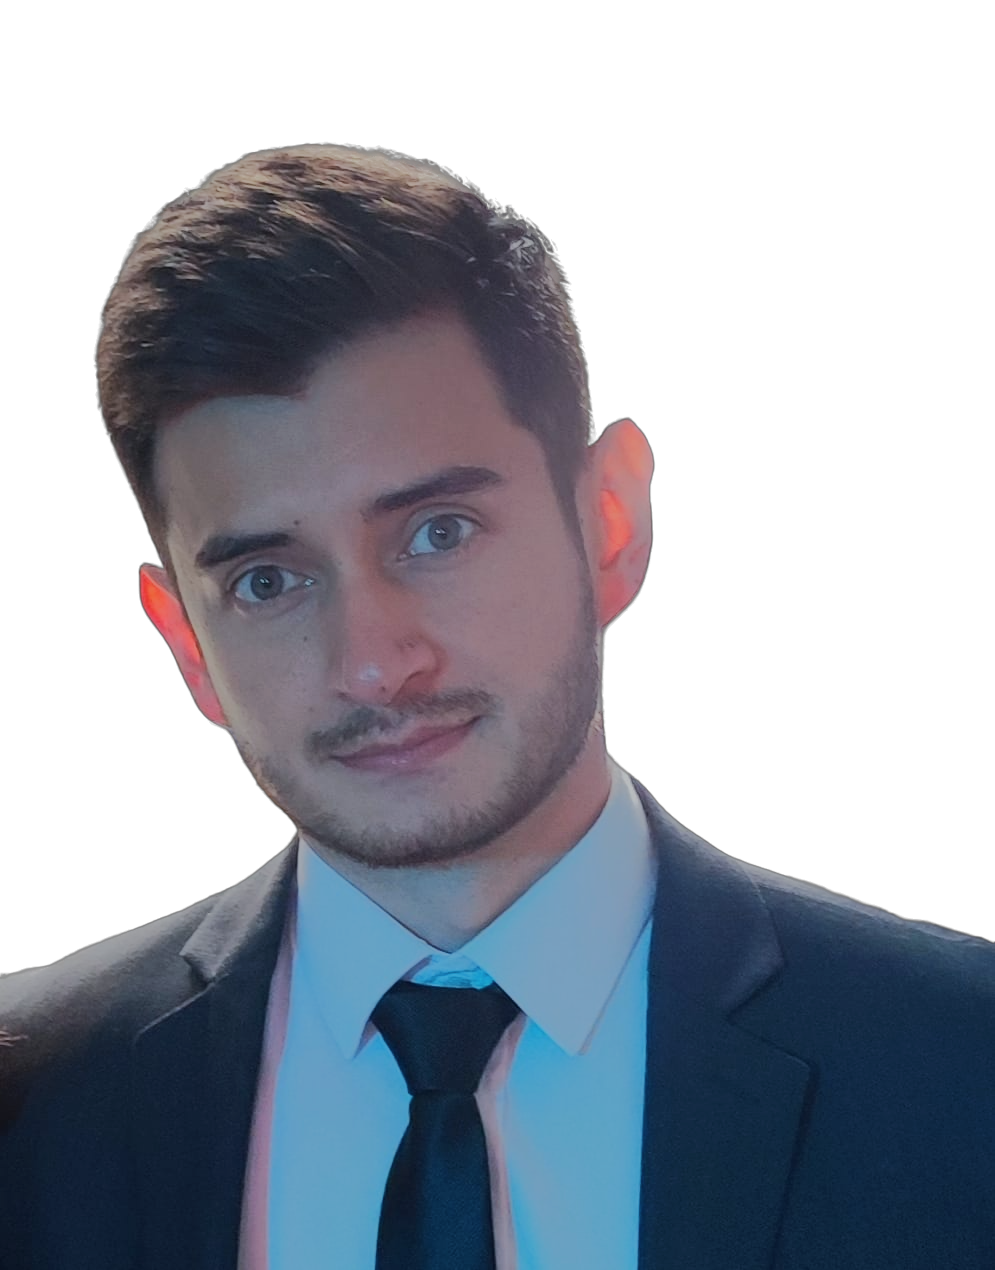
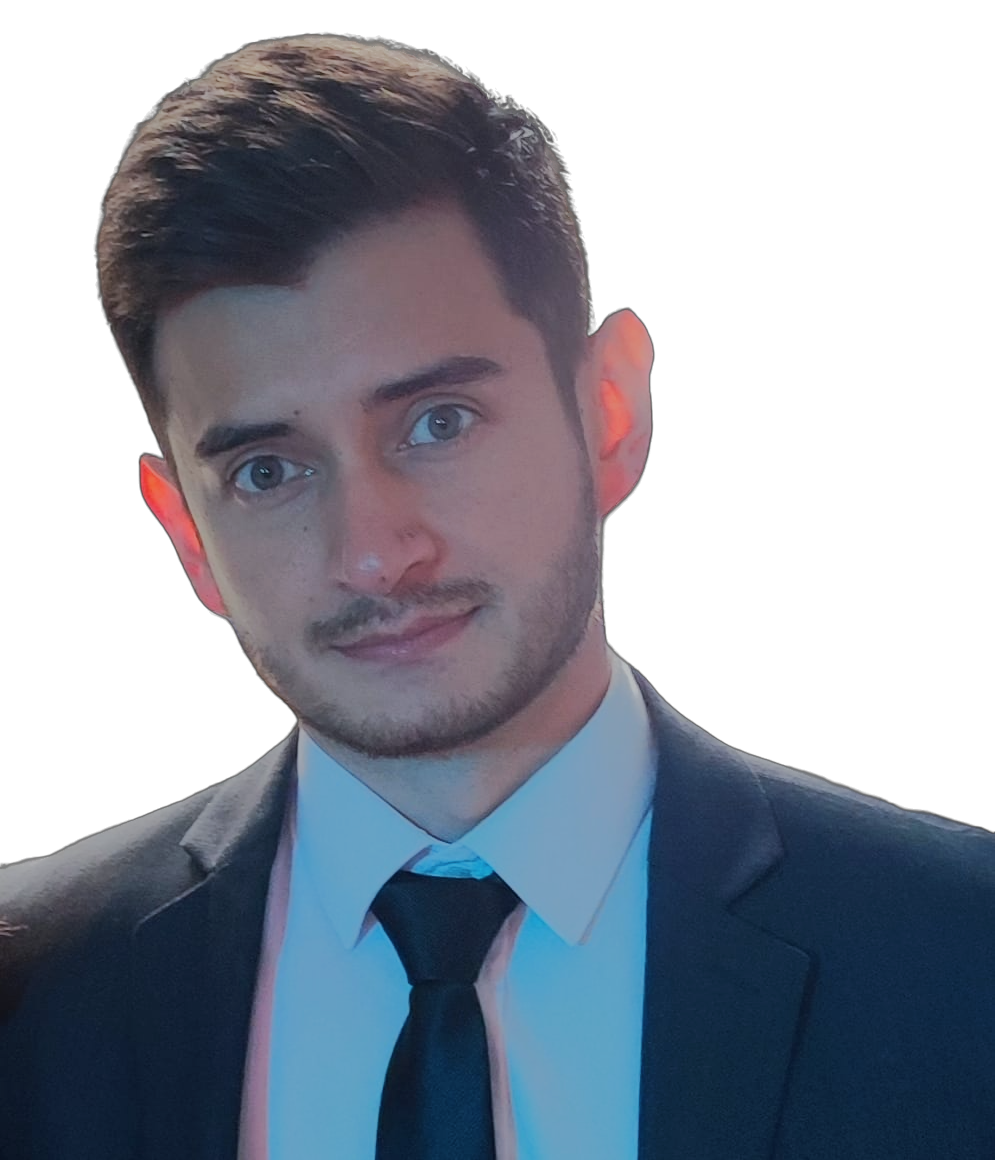
Se mejoro el resposive de toda la pagina

diff --git a/src/components/home/Home.module.css b/src/components/home/Home.module.css
@@ -1,31 +1,40 @@
-
+/* 
 .principalHome{
   display: grid;
  grid-template-rows: auto auto auto;
-}
+} */
 .principalDiv{
     height: 100vh;
+    width: 100%;
     
 }
 .InfoAndImageContainer{
   z-index: 2 ;
   display: flex;
   flex-direction: row;
-  flex-wrap: wrap;
   justify-content: center;
-  top: 100px;
+  margin-top: 300px;
   position: absolute;
-  height: 100%;
+  height: 93vh;
   width: 100%;
 
 }
-@media (max-width: 768px) {
+@media (max-width: 600px) {
   .InfoAndImageContainer {
-    width: 93vh;
+    
     flex-wrap: nowrap;
     flex-direction: column;
-    width: 90%;
-    top: 10px;
+    justify-content: flex-start;
+    width: 98%;
+    height: 100%;
+    top: 0px;
+    margin-top: 12vh;
+  }
+}
+@media (max-height: 668px) {
+  .InfoAndImageContainer {
+    margin-top:4vh ;
+    
   }
 }
 
@@ -35,6 +44,7 @@
   flex-direction: column;
   padding: 10px;
   align-items: flex-start;
+  justify-content: center;
   margin-right: 30px;
   width: 800px;
 }
@@ -54,10 +64,10 @@
 }
 @media (max-width: 768px) {
   .hello p {
-    font-size: 15px;
-    width: 100%;
-    height: 40%;
-    margin: 2px 0px 2px 0px;
+    font-size: 17px;
+    width: 99%;
+    height: 50%;
+    margin: 10px 0px 5px 0px;
   }
 }
 .hello h1{
@@ -65,7 +75,7 @@
   text-align: start;
   font-size: 50px;
   margin-bottom: 2px;
-  margin-top: 100px;
+  margin-top: 0px;
   color:  var(--color-primario);
 }
 @media (max-width: 768px) {
@@ -105,6 +115,13 @@
 @media (max-width: 768px) {
   .downloadButton  {
  margin-top: 20px;
+ margin-bottom: 20px;
+  }
+}
+@media (max-height: 668px) {
+  .downloadButton {
+    display: none;
+    
   }
 }
 .downloadButton:hover{
@@ -117,14 +134,18 @@
 }
 .bannerImg{
   width: 550px;
-  height: 680px;
+  height: 600px;
   border-radius: 70px;
   
 }
 @media (max-width: 768px) {
   .bannerImg  {
-    width: 300px;
-  height: 300px; 
+    position: relative;
+    width: 95%;
+    height: 85%;
+    margin-top: 1%;
+    z-index: -3; 
+   
  
   }
 }
@@ -146,13 +167,15 @@
   display: flex;
   flex-direction: row;
   flex-wrap: wrap;
-  width: 25%;
-  height: 80%;
+  width: 24%;
+  height: 100%;
+  z-index: -1;
+ 
 }
 @media (max-width: 768px) {
   .girarContainer1  {
   width: 100%;
-  height: 80%;
+  height: 600px;
   flex-direction: column;
   justify-content: center;
   align-items: center;
@@ -160,7 +183,7 @@
 }
 .girar {
     /* Establecer un tamaño y posición para el div */
-    width: 200px;
+    width: 100%;
     height: 200px;
     position: relative;
     bottom: 0;
@@ -169,13 +192,13 @@
     border-radius: 100%;
     
     /* Añadir la animación y la transformación */
-    animation: girarInfinitamente 15s linear infinite;
+    animation: girarInfinitamente 25s linear infinite;
     transform-origin: center;
   }
   @media (max-width: 768px) {
     .girar  {
-      width: 100px;
-      height: 100px;
+      width: 200px;
+      height: 200px;
     }
   }
   
@@ -209,7 +232,7 @@
 
   .girarIzq {
     /* Establecer un tamaño y posición para el div */
-    width: 150px;
+    width: 100%;
     height: 200px;
     position: relative;
     bottom: 0;
@@ -217,13 +240,13 @@
     z-index: -2;
     
     /* Añadir la animación y la transformación */
-    animation: girarInfinitamenteizq 20s linear infinite;
+    animation: girarInfinitamenteizq 40s linear infinite;
     transform-origin: center;
   }
   @media (max-width: 768px) {
     .girarIzq  {
-      width: 100px;
-      height: 100px;
+      width: 300px;
+      height: 150px;
     }
   }
   
@@ -256,7 +279,7 @@
 
    .girarDer {
     /* Establecer un tamaño y posición para el div */
-    width: 300px;
+    width: 100%;
     height: 200px;
     position: relative;
     bottom: 0;
@@ -265,13 +288,13 @@
     border-radius: 100%;
     
     /* Añadir la animación y la transformación */
-    animation: girarInfinitamente 50s linear infinite;
+    animation: girarInfinitamente 80s linear infinite;
     transform-origin: center;
   }
   @media (max-width: 768px) {
     .girarDer  {
-      width: 100px;
-      height: 100px;
+      width: 250px;
+      height: 250px;
     }
   }
   

diff --git a/src/components/about/About.module.css b/src/components/about/About.module.css
@@ -1,18 +1,31 @@
 .principalContainer{
+  position: relative;
     display: flex;
     width: 100%;
-    height: 100vh;
-
-    
+    height: 100vh;  
+    background-color: rgb(240, 243, 246); 
+    z-index: 3;
 }
+@media (max-width: 600px) {
+    .principalContainer {
+      height:105vh ;
+      
+    }
+  }
 .principalDiv{
     height: 93vh;
     background-color: rgb(240, 243, 246);
-    margin-top: 7vh;
+    margin-top: 43px;
     position: absolute;
     width: 100%;
-   
+    z-index: 3;
 }
+@media (max-width: 600px) {
+    .principalDiv {
+      height:105vh ;
+      margin-top: 53px;
+    }
+  }
 .title{
     display: flex;
     flex-direction: column;
@@ -20,13 +33,16 @@
     position: relative;
     top: -10px;
     width: 100%;
+  
     align-items: center;
+    z-index: 1;
     
 }
 
 .title h1{
     font-size: 2.5rem;
     margin-bottom: 5px;
+    z-index: 3;
 }
 @media (max-width: 768px) {
     .title h1 {
@@ -36,6 +52,7 @@
   }
 .title h1 span{
     color: #ffb400;
+    z-index: 3;
 }
 .figureContainer{
     display: flex;
@@ -152,7 +169,7 @@
 }  
 .info hr{
     /* border-top: solid  red; */
-    width: 100%;
+    width: 99%;
 } 
 
 .infoContainer{

diff --git a/src/components/portafolio/Porfolio.module.css b/src/components/portafolio/Porfolio.module.css
@@ -25,7 +25,7 @@
     margin-top: 1px;
     position: relative;
     top: -10px;
-    width: 100%;
+    width: 98%;
     align-items: center;
 }
 .title h1{
@@ -74,6 +74,13 @@
     opacity: 1;
   transition: all 0.3s ease-in-out;
 }
+@media (max-width: 768px) {
+    .countryImage  {
+        margin: 5px;
+        width: 95%;
+      
+    }
+  }
 .countryImage:hover{
     height: 210px;
     width: 360px;
@@ -90,6 +97,7 @@
 @media (max-width: 600px) {
     .projectContainer {
     margin-top: 10px;
+    width: 99%;
     }
   }
 
